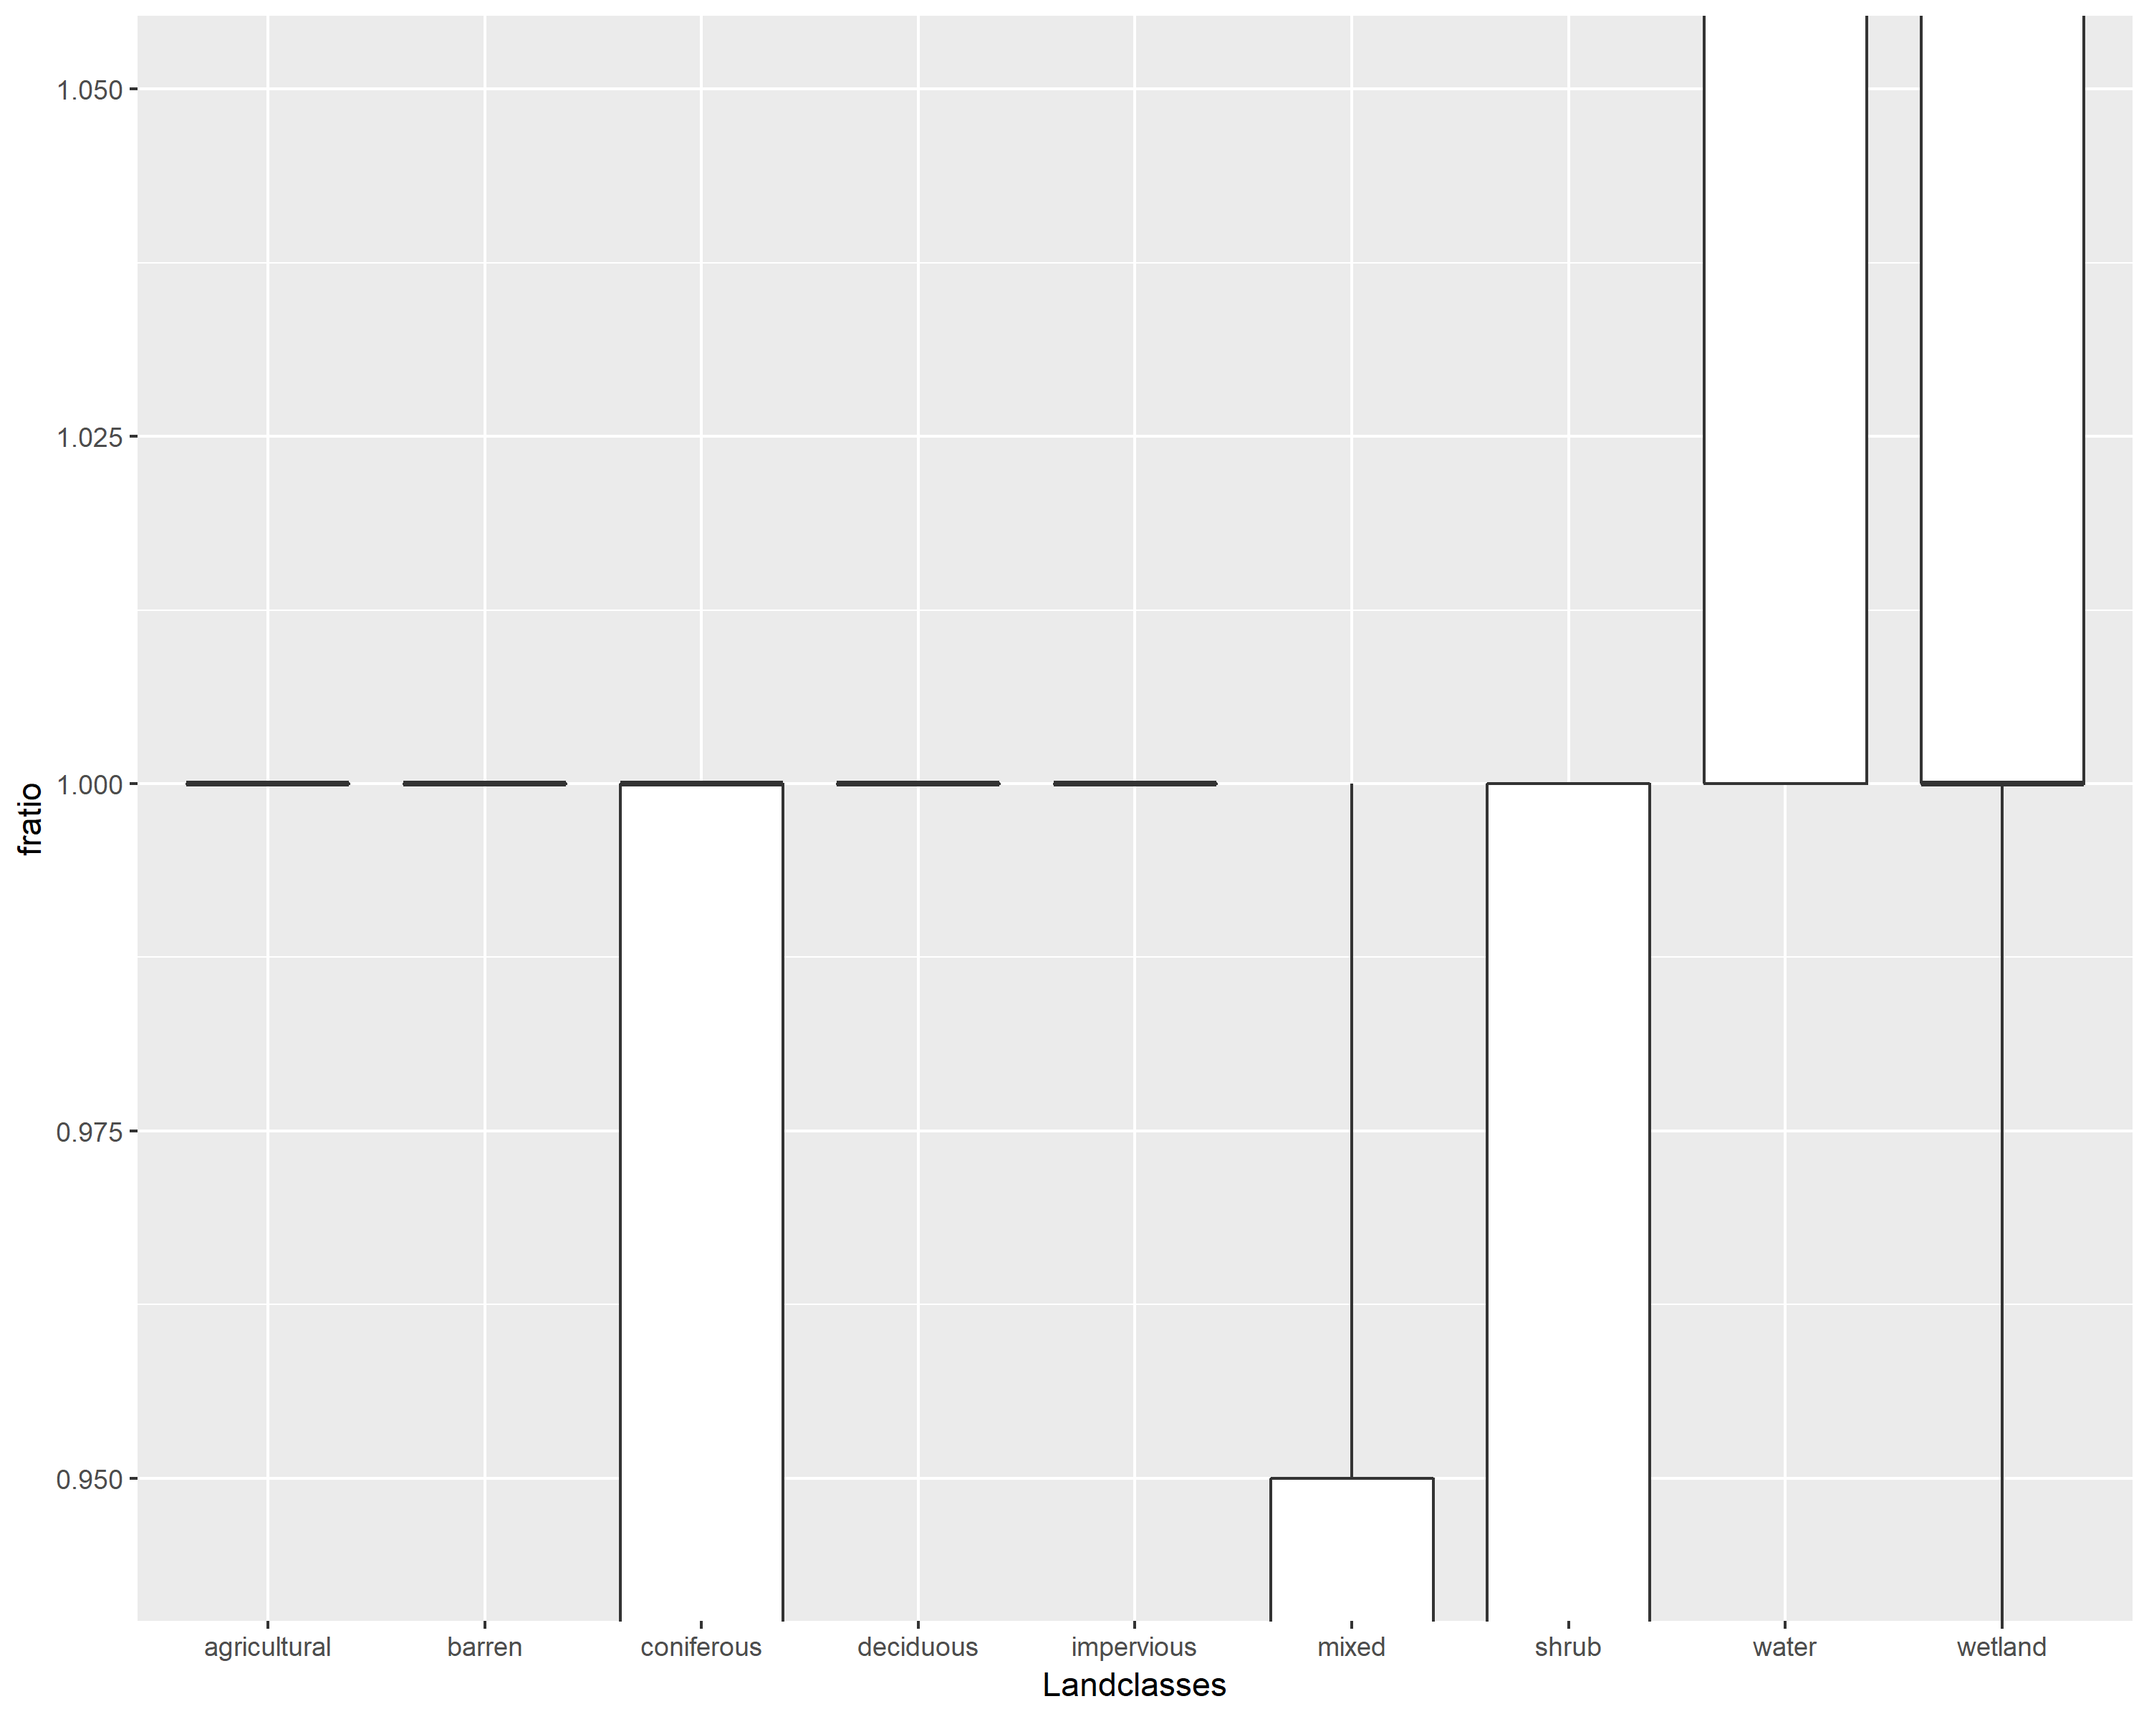
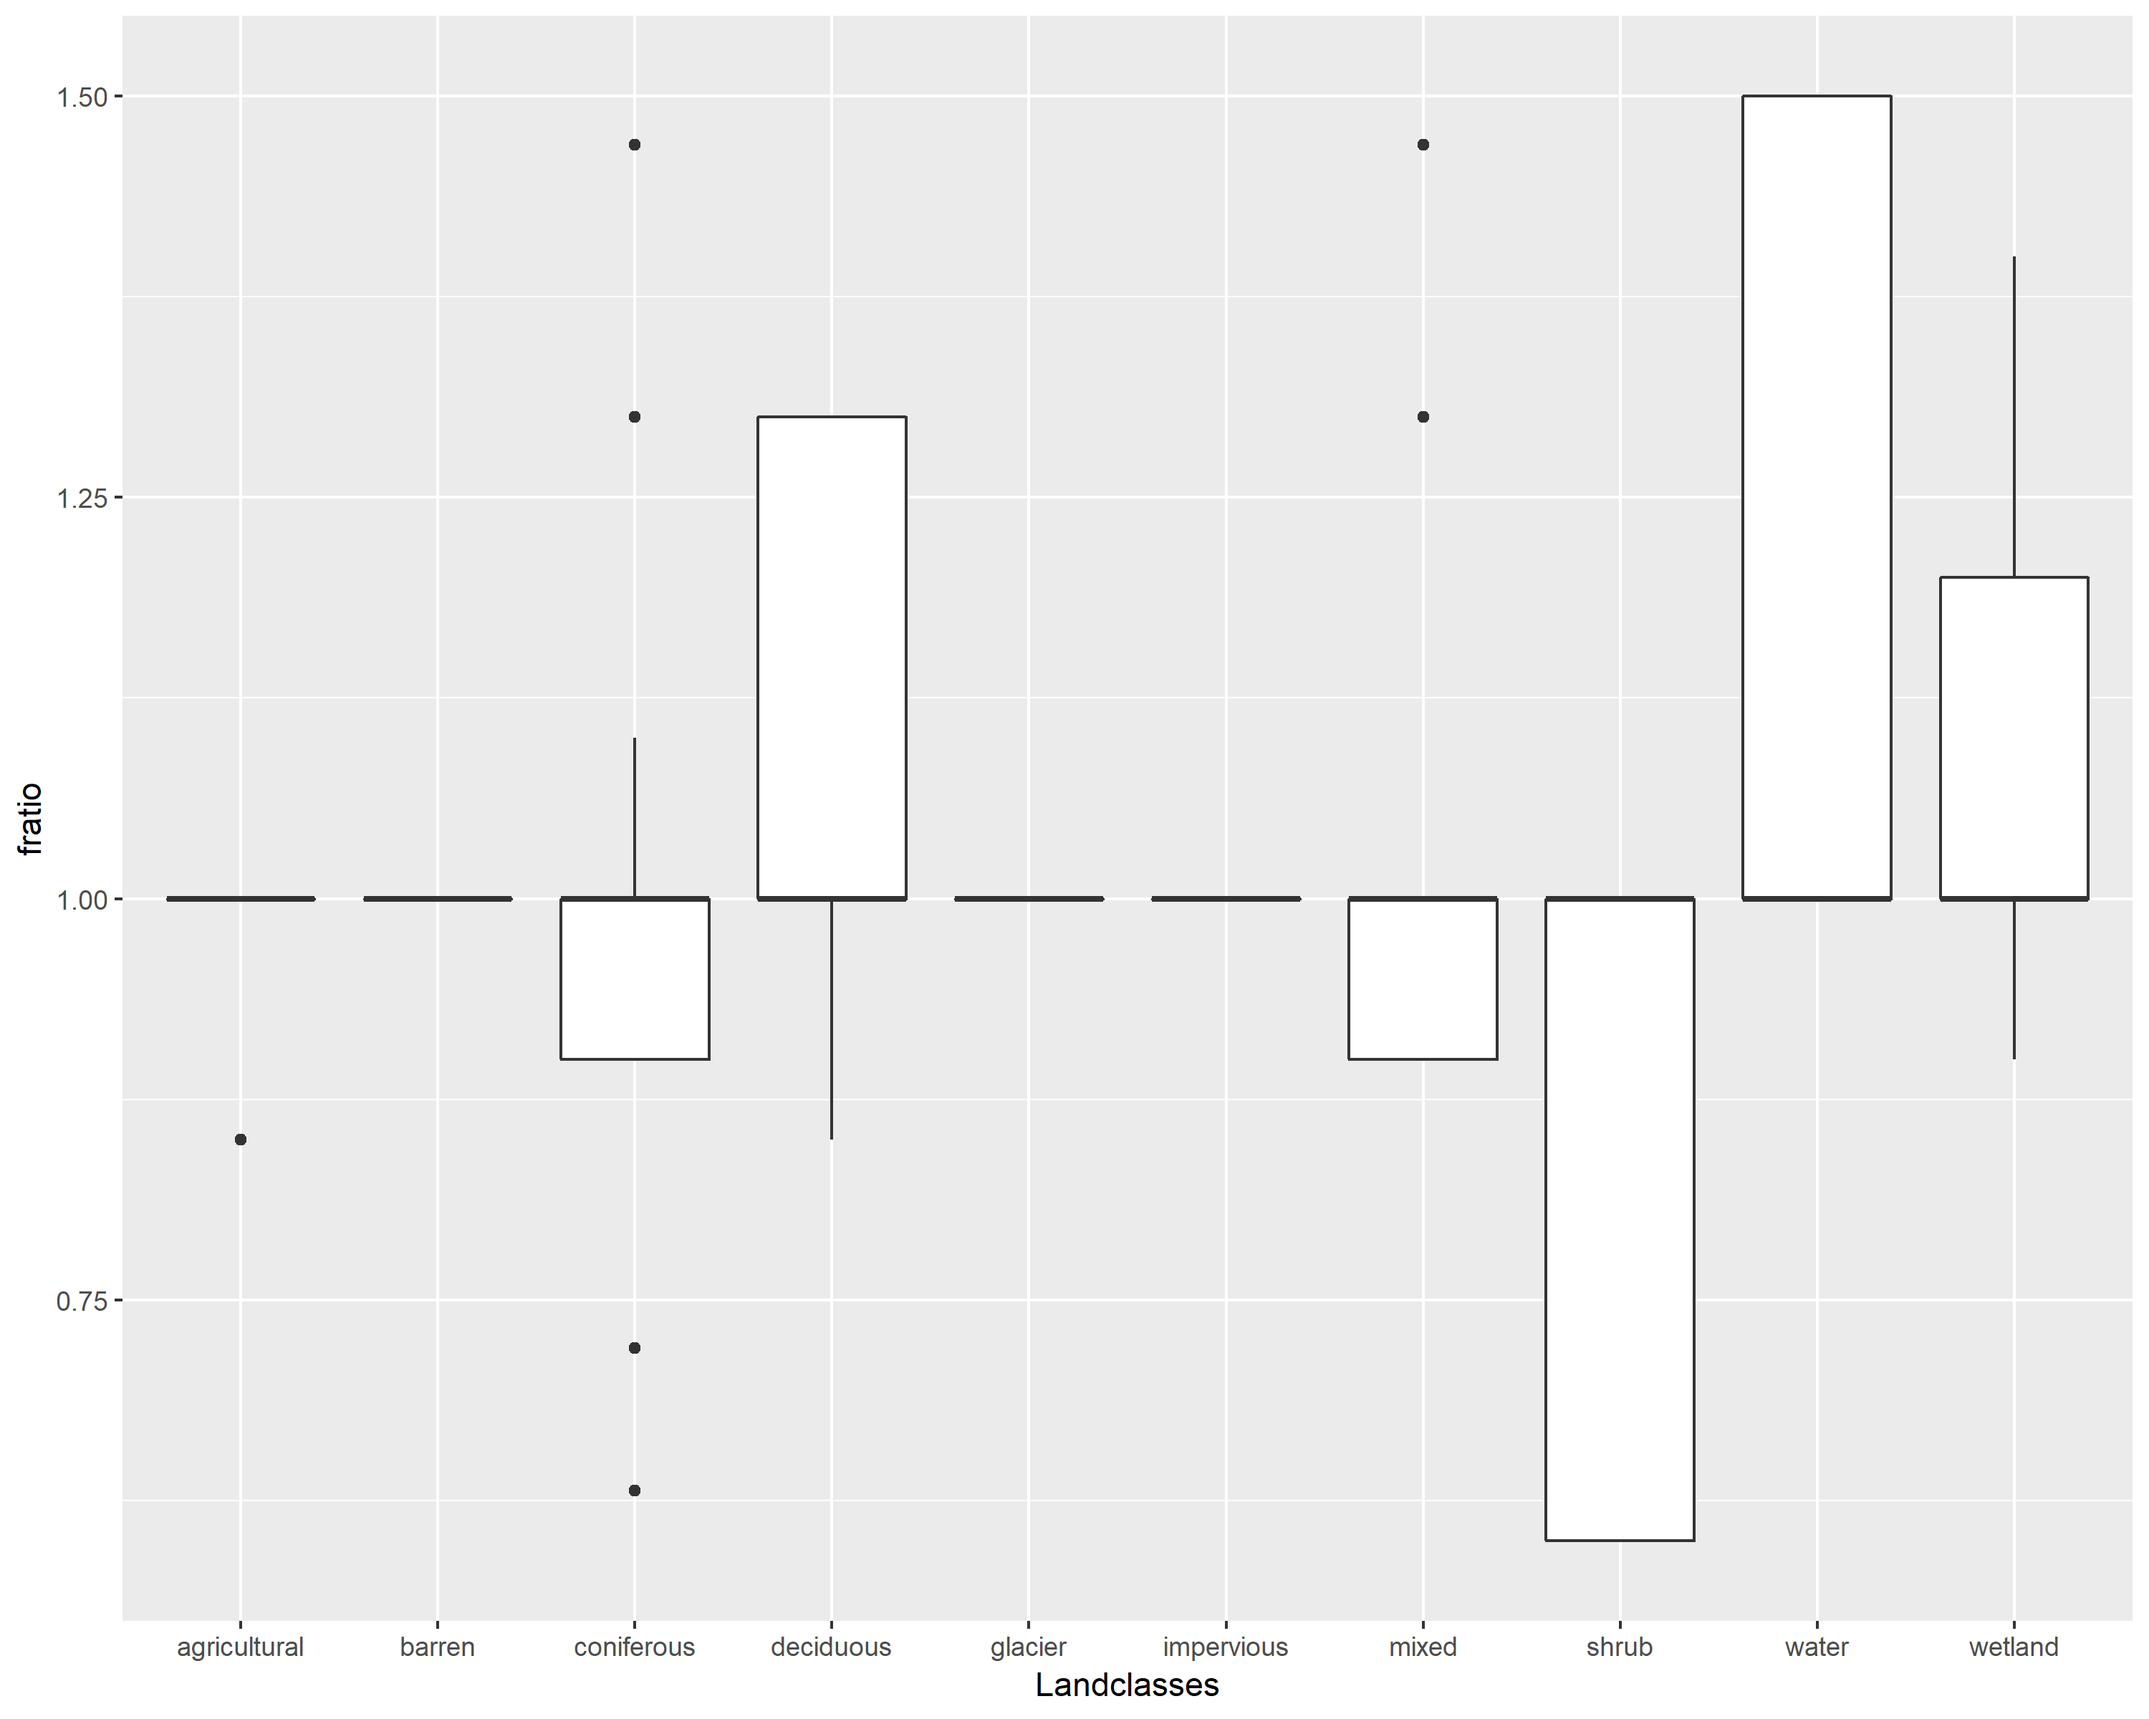
added proprietary dataset to analysis. This parameter set is excluded on Github but the data is used in the analysis and thus represented in the plots online.

diff --git a/README.md b/README.md
@@ -28,40 +28,40 @@ Output
 Summary Table
 -------------
 
-|    X| Parameter    |       min|        max|    fifth|  ninetyfifth|   median|
-|----:|:-------------|---------:|----------:|--------:|------------:|--------:|
-|    1| a5           |    0.9850|  9.850e-01|   0.9850|       0.9850|   0.9850|
-|    2| ak           |   -1.0000|  4.000e+02|  -0.1000|      99.9400|   9.0000|
-|    3| ak2          |    0.0000|  9.600e-01|   0.0000|       0.3341|   0.0502|
-|    4| ak2fs        |    0.0000|  9.600e-01|   0.0000|       0.5155|   0.0240|
-|    5| akfs         |   -1.0000|  4.000e+02|  -0.1000|      99.9700|   2.0000|
-|    6| alb          |    0.0000|  1.800e-01|   0.1100|       0.1800|   0.1100|
-|    7| base         |  -99.0000|  1.120e+01|  -2.5000|       2.7300|  -0.9580|
-|    8| ds           |    0.0000|  1.200e+10|   0.0000|     122.1000|   1.0000|
-|    9| dsfs         |    0.0000|  2.200e+10|   0.0000|     220.0000|   2.0000|
-|   10| fcap         |    0.1500|  1.000e+00|   0.1500|       0.1500|   0.1500|
-|   11| ffcap        |    0.0800|  1.000e+00|   0.1000|       0.1000|   0.1000|
-|   12| flint        |    1.0000|  1.000e+00|   1.0000|       1.0000|   1.0000|
-|   13| flz          |    0.0000|  7.500e-01|   0.0000|       0.0046|   0.0000|
-|   14| fm           |    0.0510|  8.140e-01|   0.0600|       0.4212|   0.1120|
-|   15| fmn          |    0.0000|  1.370e-01|   0.0000|       0.1000|   0.1000|
-|   17| fratio       |    0.6000|  1.500e+00|   0.7050|       1.4650|   1.0000|
-|   19| kcond        |    0.0163|  1.000e+01|   0.1000|       2.0000|   0.2320|
-|   20| mndr         |    1.0000|  1.500e+00|   1.0000|       1.1250|   1.0000|
-|   21| pwr          |    1.2400|  3.920e+00|   1.5800|       3.8400|   2.7500|
-|   22| r1           |    0.0040|  2.000e+00|   0.0075|       2.0000|   0.4000|
-|   23| r2           |    0.0010|  3.862e+00|   0.0019|       1.5340|   0.0175|
-|   24| r3           |    0.0000|  9.200e+02|   0.0090|      84.8000|   8.9800|
-|   25| r3fs         |    0.0000|  5.000e+02|   0.0400|      30.0000|  10.0000|
-|   26| r4           |    0.0000|  1.000e+01|   0.3800|      10.0000|  10.0000|
-|   27| rec          |    0.0000|  4.120e+01|   0.0002|       3.9510|   0.5060|
-|   28| retn         |    0.0000|  4.560e+02|   0.0000|     313.5000|  50.0000|
-|   29| rho          |    0.3300|  6.000e-01|   0.3300|       0.3330|   0.3330|
-|   30| spore        |    0.2500|  1.000e+00|   0.3000|       0.3325|   0.3000|
-|   31| sublim\_rate |    0.0000|  4.000e-01|   0.0100|       0.4000|   0.1100|
-|   32| theta        |    0.1000|  2.500e+00|   0.1107|       1.0000|   0.3920|
-|   33| tipm         |    0.1000|  2.000e-01|   0.1000|       0.2000|   0.1000|
-|   34| whcl         |    0.0350|  5.000e-02|   0.0350|       0.0400|   0.0350|
+|    X| Parameter    |              min|              max|    fifth|  ninetyfifth|   median|
+|----:|:-------------|----------------:|----------------:|--------:|------------:|--------:|
+|    1| a5           |           0.9850|            0.985|   0.9850|       0.9850|   0.9850|
+|    2| ak           |          -1.0000|          400.000|   0.0000|      71.3072|   8.0000|
+|    3| ak2          |           0.0000|            0.960|   0.0000|       0.4760|   0.0660|
+|    4| ak2fs        |  -432000000.0000|            0.960|   0.0000|       0.4920|   0.0380|
+|    5| akfs         |          -1.0000|          400.000|   0.0000|      87.6016|   2.0000|
+|    6| alb          |           0.0000|            0.180|   0.1100|       0.1800|   0.1100|
+|    7| base         |         -99.0000|           11.200|  -3.5140|       2.7300|  -1.0000|
+|    8| ds           |           0.0000|  12000000000.000|   0.0000|      20.0000|   1.2000|
+|    9| dsfs         |           0.0000|  22000000000.000|   0.0000|      28.5000|   1.7000|
+|   10| fcap         |           0.1500|            1.000|   0.1500|       0.3000|   0.1500|
+|   11| ffcap        |           0.0800|            1.000|   0.1000|       0.5000|   0.1000|
+|   12| flint        |           0.0000|            1.000|   1.0000|       1.0000|   1.0000|
+|   13| flz          |           0.0000|            0.750|   0.0000|       0.0046|   0.0000|
+|   14| fm           |           0.0420|            0.814|   0.0580|       0.4702|   0.1120|
+|   15| fmn          |           0.0000|            0.137|   0.0344|       0.1000|   0.1000|
+|   17| fratio       |           0.1800|            4.400|   0.6000|       1.4490|   1.0000|
+|   19| kcond        |           0.0163|           10.000|   0.1000|       2.0000|   0.2320|
+|   20| mndr         |           1.0000|            1.500|   1.0000|       1.1250|   1.0000|
+|   21| pwr          |           1.2400|            3.920|   1.5800|       3.8400|   2.7500|
+|   22| r1           |           0.0040|            2.000|   0.0075|       2.0000|   0.4000|
+|   23| r2           |           0.0010|            3.862|   0.0019|       1.5340|   0.0175|
+|   24| r3           |           0.0000|          920.000|   0.0090|      84.8000|  19.7000|
+|   25| r3fs         |           0.0000|          500.000|   0.1000|      30.0000|  10.0000|
+|   26| r4           |           0.0000|           10.000|   1.0000|      10.0000|  10.0000|
+|   27| rec          |           0.0000|           41.200|   0.0001|       3.9895|   0.5135|
+|   28| retn         |           0.0000|          456.000|   0.0000|     299.5500|  53.5500|
+|   29| rho          |           0.3300|            0.600|   0.3300|       0.5000|   0.3330|
+|   30| spore        |           0.2500|            1.000|   0.3000|       0.3000|   0.3000|
+|   31| sublim\_rate |           0.0000|            2.000|   0.0100|       0.9590|   0.2500|
+|   32| theta        |           0.1000|            2.500|   0.1107|       1.0000|   0.3920|
+|   33| tipm         |           0.1000|            0.200|   0.1000|       0.2000|   0.1000|
+|   34| whcl         |           0.0350|            0.050|   0.0350|       0.0400|   0.0350|
 
 Plots
 -----
